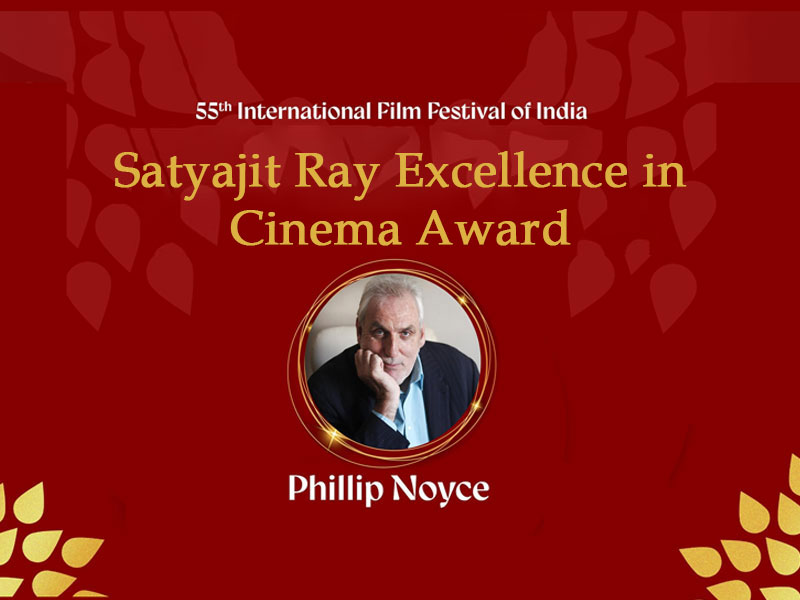
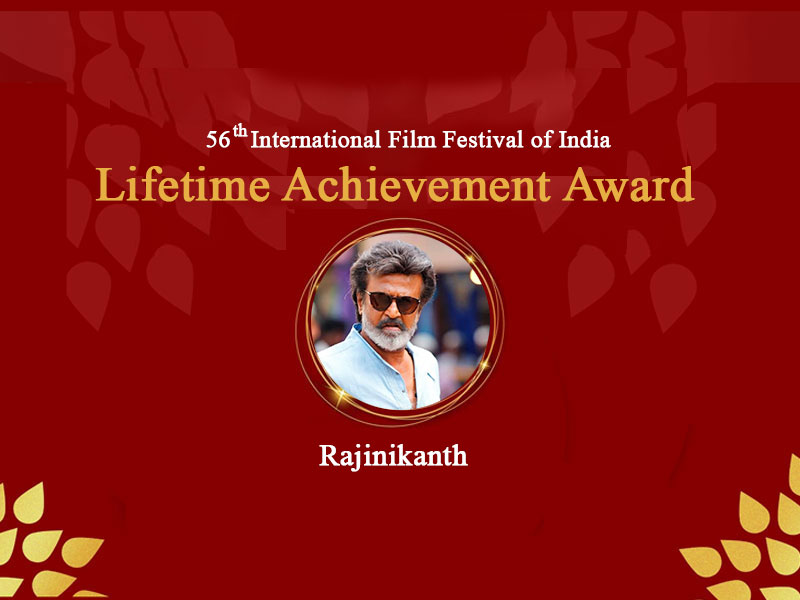
Changes

Changed region(s): [[0.125, 0.12, 0.875, 0.84]]

diff --git a/resources/views/pages/lifetime-achievement-award.blade.php b/resources/views/pages/lifetime-achievement-award.blade.php
@@ -7,17 +7,19 @@
             </div>
             <div class="col-md-6 col-sm-6 ">
                 <h4 class="mb-3">
-                    Satyajit Ray Excellence in Cinema Award
-                </h4>
+                    56th IFFI Lifetime Achievement Award </h4>
                 <p>
-                    The prestigious Satyajit Ray Lifetime Achievement Award for Excellence in Cinema goes to Veteran
-                    Australian filmmaker Phillip Noyce at 55th IFFI.
-                </p>
-                <p>
-                    Noyce, known for films such as the Angelina Jolie-starrer "Salt", "Patriot Game" starring Harrison
-                    Ford, and "The Bone Collector" featuring Denzel Washington and Jolie. Scheduled from November 20-28,
-                    2024, in Goa, the festival highlights Australia as its Country of Focus, celebrating its cinematic
-                    contributions alongside this prestigious honor.
+                    Legendary icon Rajinikanth was honoured at the closing ceremony today as he marked an extraordinary
+                    50 years in Indian cinema—a golden milestone that underscores his unmatched influence on the
+                    country's cinematic landscape. Addressing the audience with his trademark humility, the superstar
+                    expressed heartfelt gratitude to the Central Government for the special felicitation.
+                    <br>
+                    “When I look
+                    back, it feels like these five decades have passed in a moment—because cinema is my life. If given a
+                    choice, I would choose to be an actor, as Rajinikanth, for a hundred lifetimes. Thank you for your
+                    immense love and support. This honour is dedicated to the entire film fraternity—producers,
+                    directors, technicians, distributors, exhibitors, and every individual who contributes to the magic
+                    of cinema,” he shared.
                 </p>
             </div>
         </div>
